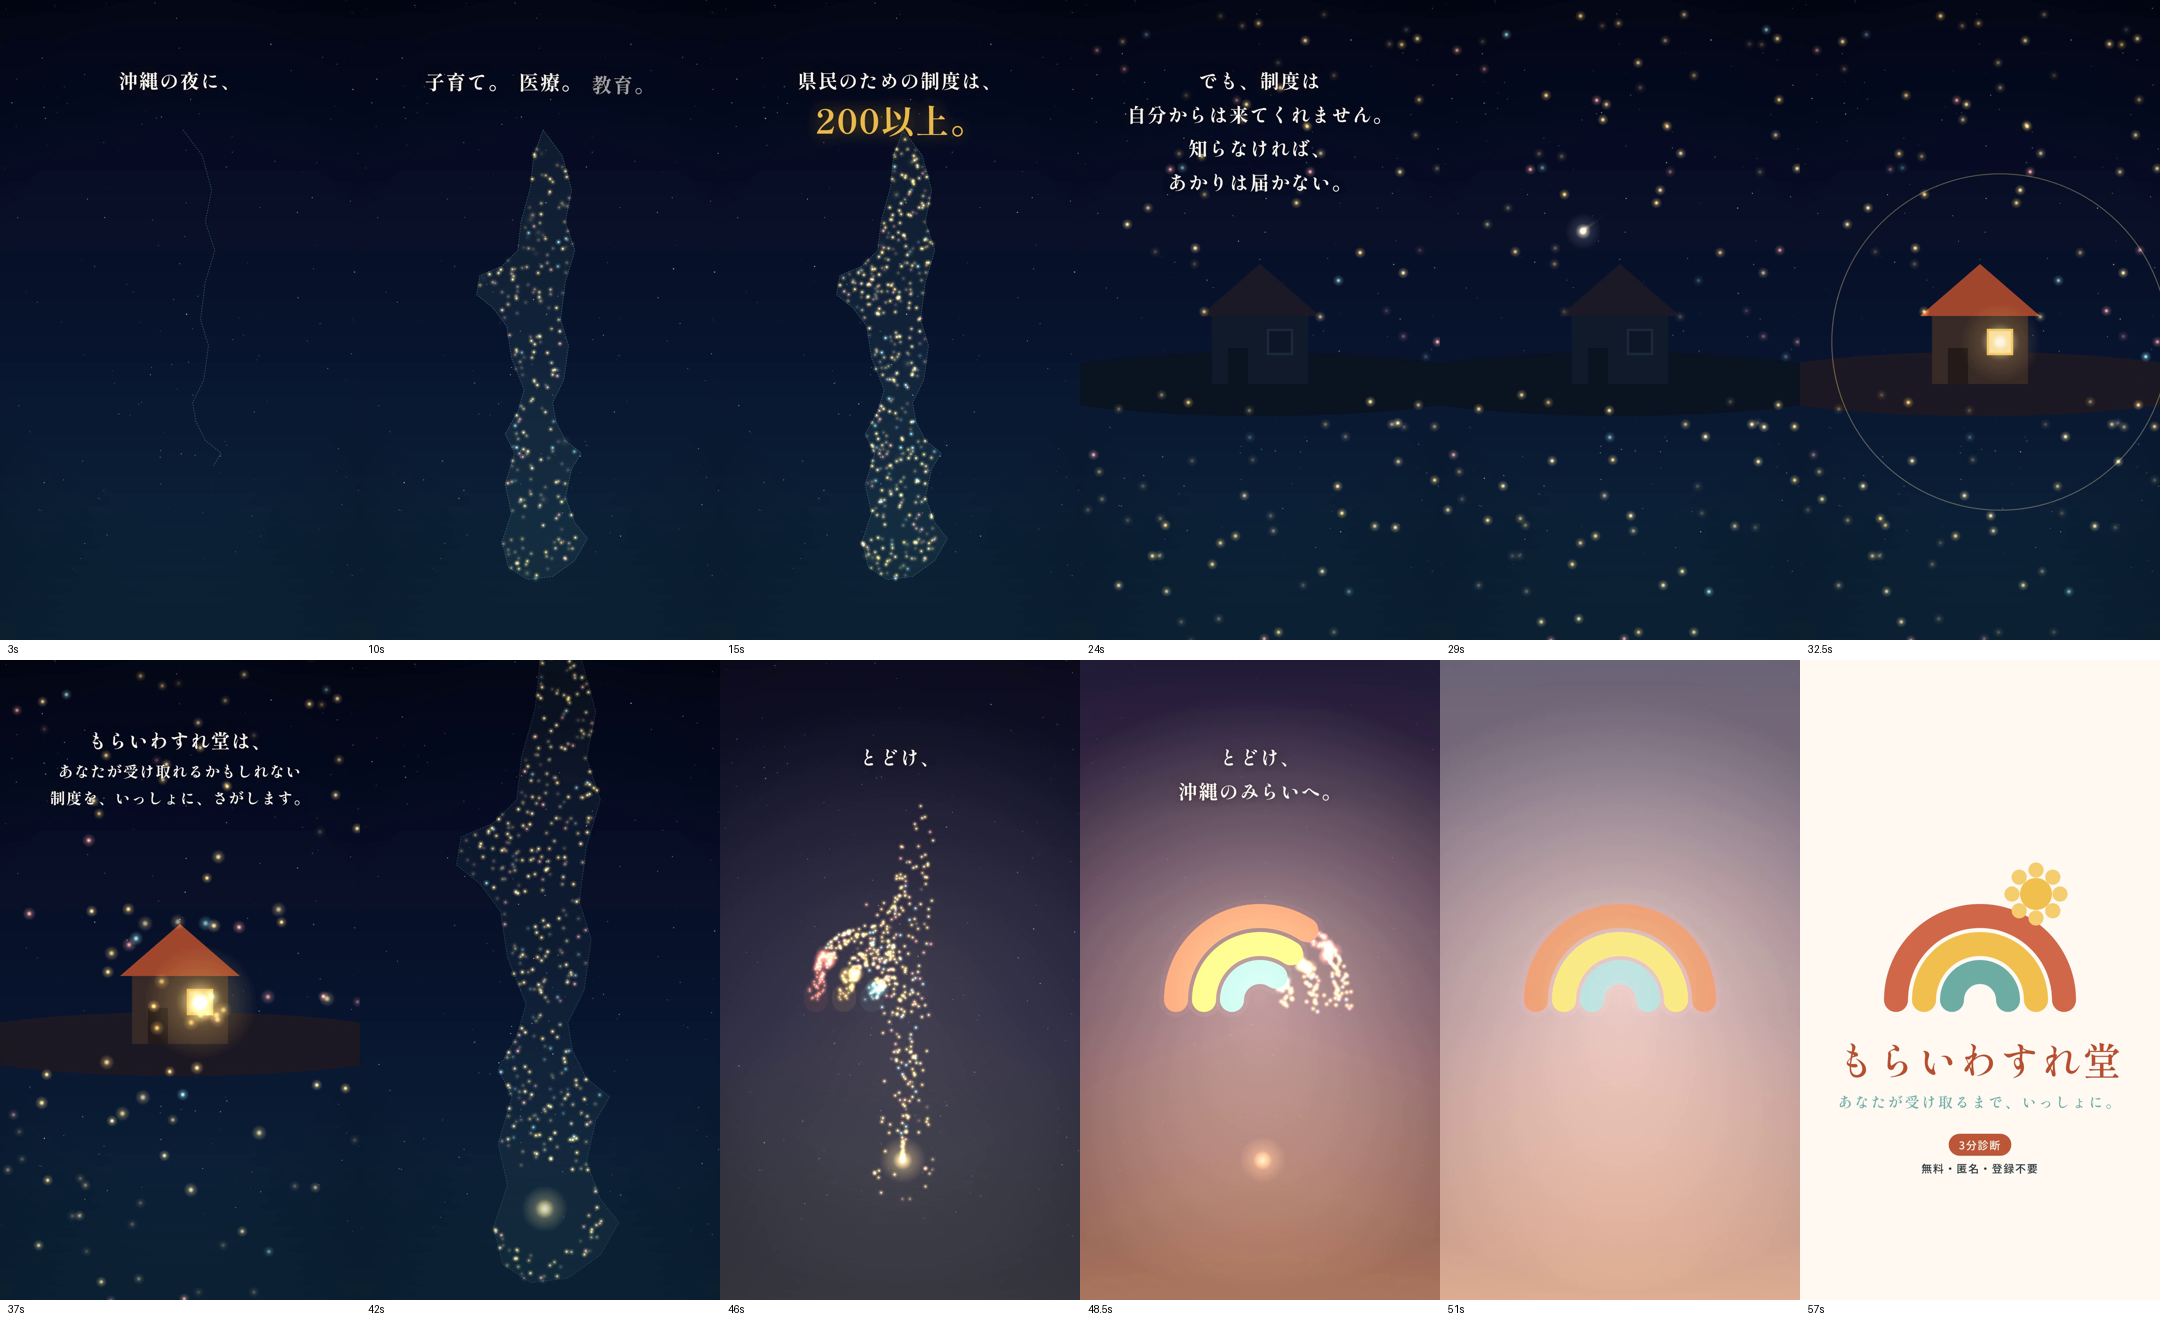
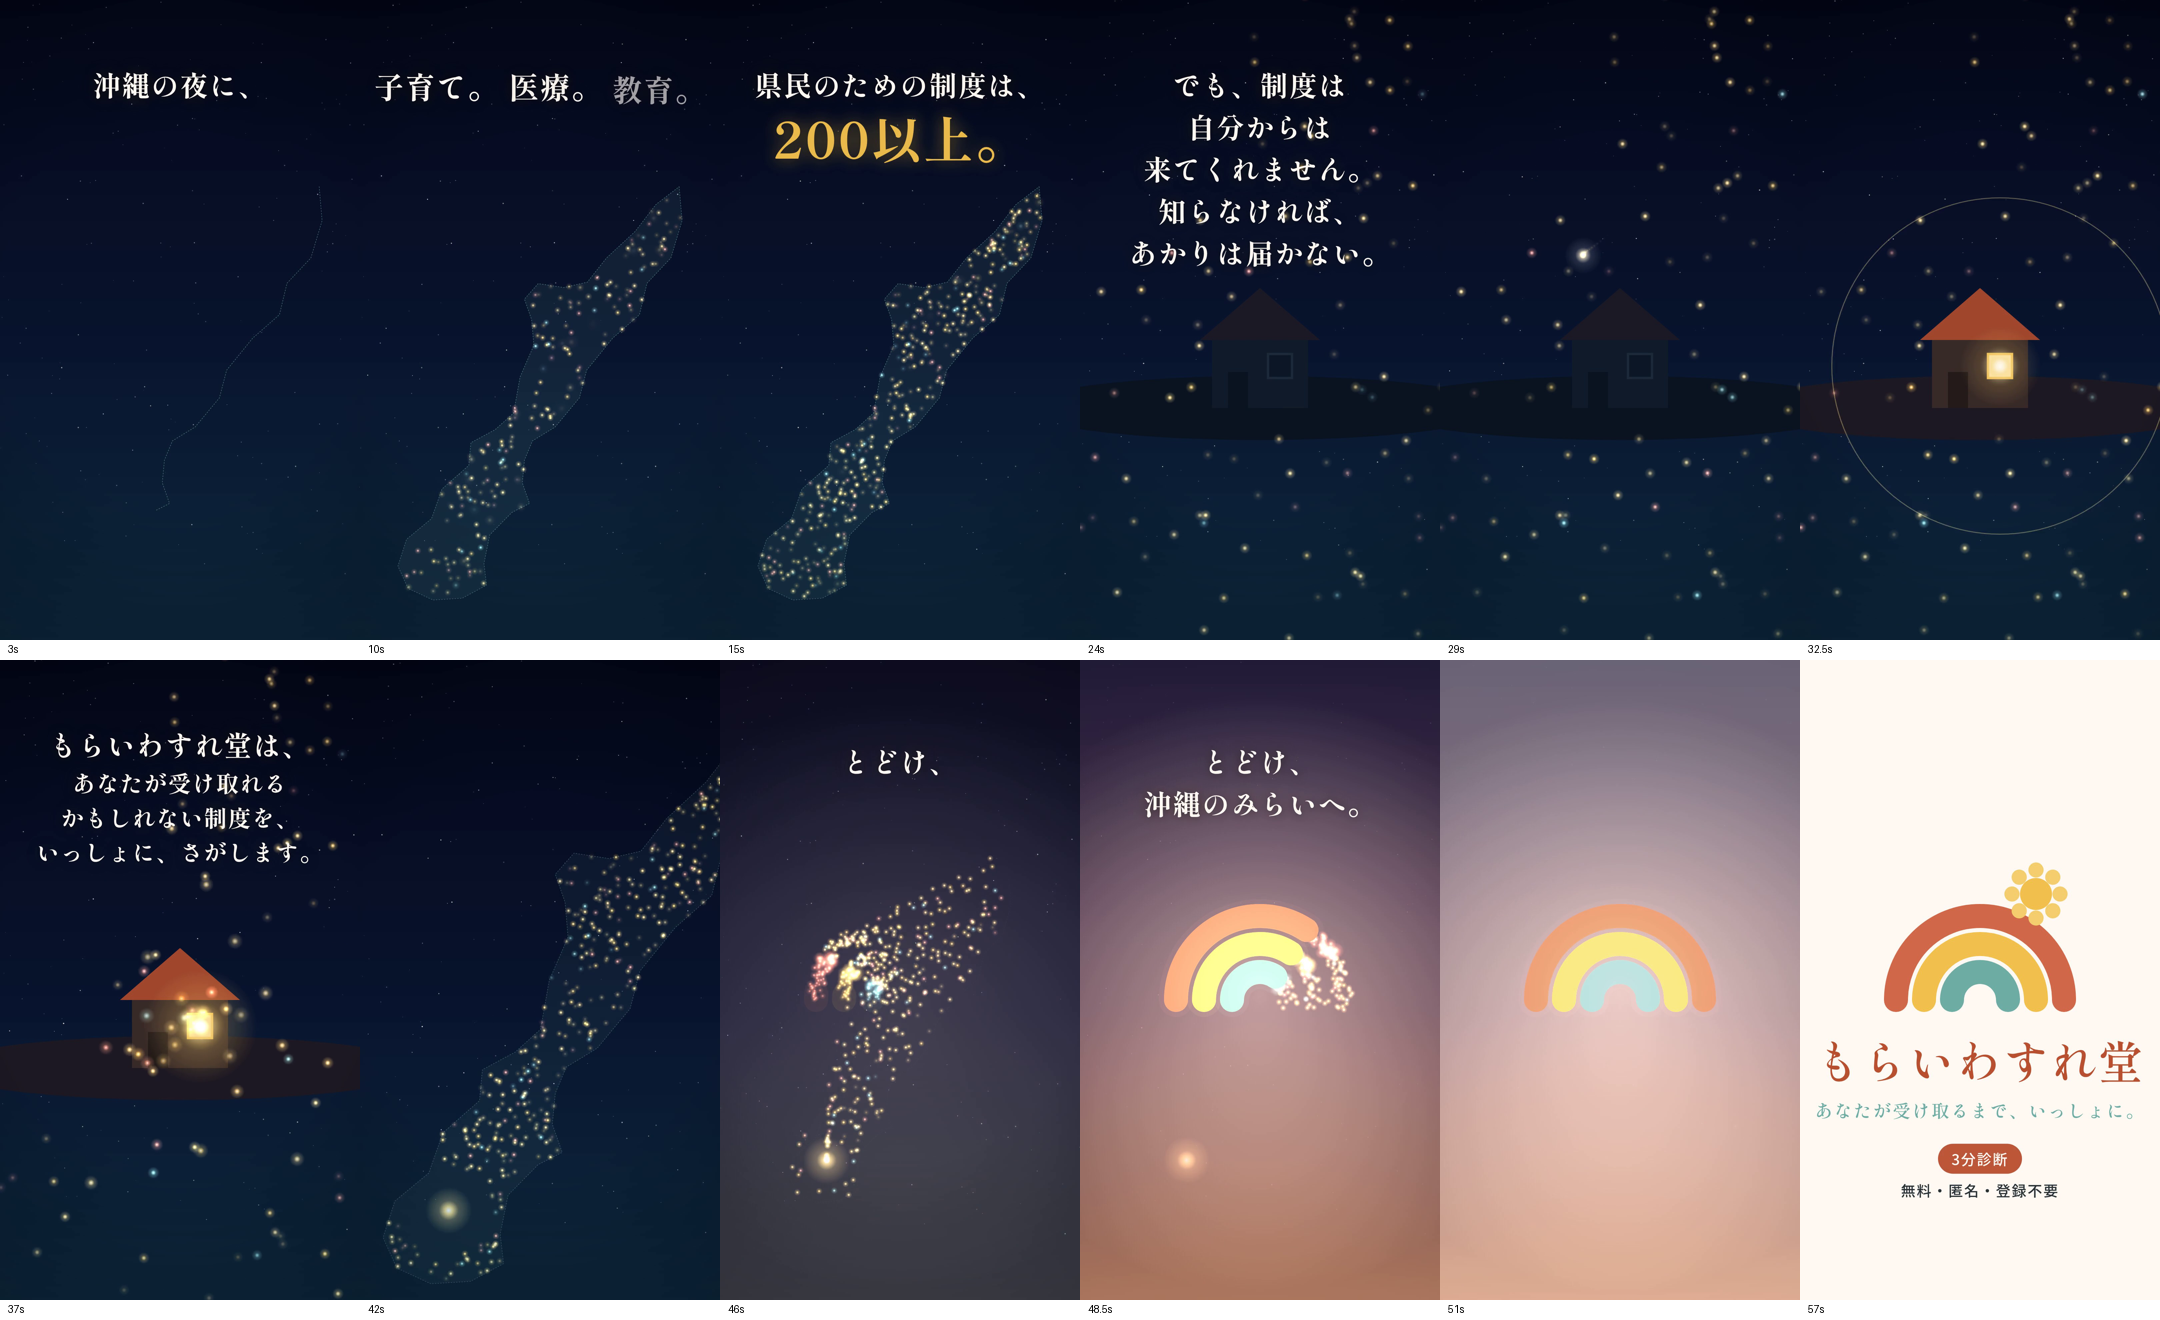
feat: 「あかりの島」の島を実際の向き(南西→北東)に斜め配置し、文字を1.5倍に
- 島の輪郭を中心まわりに32°回転し、家・あかり・カメラの枠取りを回転後の外接枠から自動算出
- 本文84px/小69px/強調150px、ロゴ下のワードマーク136px・タグライン54px・案内44pxに拡大
- 大きくなった文字に合わせて改行を組み直し(3行構成)、家に寄るカメラも文字帯と重ならない位置へ
- storyboard.png を更新

Claude-Session: https://claude.ai/code/session_01EUU57gd7iz7iCvLZHfCprB

diff --git a/video/anime-60s/index.html b/video/anime-60s/index.html
@@ -30,35 +30,35 @@ html,body{margin:0;padding:0;background:#000}
 @keyframes cvout{to{opacity:0}}
 
 /* ---- テキスト(DOM) ---- */
-.slot{position:absolute;left:80px;right:80px;text-align:center;z-index:5}
+.slot{position:absolute;left:40px;right:40px;text-align:center;z-index:5}
 .top{top:190px}
 .top2{top:240px}
 .in{opacity:0;animation:in 1.5s cubic-bezier(.2,.7,.2,1) forwards}
 .out{animation:out 1.1s ease forwards}
 @keyframes in{from{opacity:0;transform:translateY(26px)}to{opacity:1;transform:none}}
 @keyframes out{to{opacity:0}}
-.line{display:block;font-weight:700;font-size:58px;line-height:1.75;letter-spacing:.06em;
+.line{display:block;font-weight:700;font-size:84px;line-height:1.5;letter-spacing:.04em;
   text-shadow:0 2px 30px rgba(0,0,0,.55),0 0 60px rgba(242,193,78,.18)}
-.line.small{font-size:46px}
-.line.big{font-size:100px;line-height:1.3;color:var(--hi);letter-spacing:.04em;
+.line.small{font-size:69px}
+.line.big{font-size:150px;line-height:1.25;color:var(--hi);letter-spacing:.04em;
   text-shadow:0 0 50px rgba(242,193,78,.55),0 2px 30px rgba(0,0,0,.5)}
-.words{display:flex;flex-wrap:wrap;justify-content:center;gap:0 28px;padding:0 20px}
-.words .line{font-size:60px}
-.chip{display:inline-block;margin-top:18px;padding:12px 34px;border-radius:999px;
-  font-family:'Noto Sans JP',sans-serif;font-weight:500;font-size:34px;letter-spacing:.08em;
+.words{display:flex;flex-wrap:wrap;justify-content:center;gap:0 30px;padding:0}
+.words .line{font-size:90px}
+.chip{display:inline-block;margin-top:24px;padding:14px 44px;border-radius:999px;
+  font-family:'Noto Sans JP',sans-serif;font-weight:500;font-size:51px;letter-spacing:.06em;
   color:#FFFBF4;background:rgba(185,80,47,.85);text-shadow:none}
 
 /* ---- 締めのロックアップ ---- */
-.wm{position:absolute;left:0;right:0;top:1112px;text-align:center;font-weight:600;font-size:116px;
-  letter-spacing:.06em;color:var(--shu);opacity:0;animation:in 1.6s cubic-bezier(.2,.7,.2,1) 52.6s forwards;z-index:4}
-.tag{position:absolute;left:0;right:0;top:1292px;text-align:center;font-weight:600;font-size:44px;
-  letter-spacing:.14em;color:var(--umi);opacity:0;animation:in 1.6s cubic-bezier(.2,.7,.2,1) 54.2s forwards;z-index:4}
-.cta{position:absolute;left:0;right:0;top:1420px;text-align:center;font-family:'Noto Sans JP',sans-serif;
-  font-weight:500;font-size:32px;letter-spacing:.1em;color:var(--sumi);opacity:0;
+.wm{position:absolute;left:0;right:0;top:1100px;text-align:center;font-weight:600;font-size:136px;
+  letter-spacing:.04em;color:var(--shu);opacity:0;animation:in 1.6s cubic-bezier(.2,.7,.2,1) 52.6s forwards;z-index:4}
+.tag{position:absolute;left:0;right:0;top:1310px;text-align:center;font-weight:600;font-size:54px;
+  letter-spacing:.08em;color:var(--umi);opacity:0;animation:in 1.6s cubic-bezier(.2,.7,.2,1) 54.2s forwards;z-index:4}
+.cta{position:absolute;left:0;right:0;top:1450px;text-align:center;font-family:'Noto Sans JP',sans-serif;
+  font-weight:500;font-size:44px;letter-spacing:.08em;line-height:1.5;color:var(--sumi);opacity:0;
   animation:in 1.4s cubic-bezier(.2,.7,.2,1) 56.2s forwards;z-index:4}
-.cta b{display:inline-block;margin-bottom:14px;padding:10px 30px;border-radius:999px;background:var(--shu);color:#FFFBF4;font-weight:500}
+.cta b{display:inline-block;margin-bottom:16px;padding:12px 40px;border-radius:999px;background:var(--shu);color:#FFFBF4;font-weight:500}
 .corp{position:absolute;left:0;right:0;top:1790px;text-align:center;font-family:'Noto Sans JP',sans-serif;
-  font-weight:500;font-size:24px;letter-spacing:.2em;color:#9A8F86;opacity:0;
+  font-weight:500;font-size:32px;letter-spacing:.2em;color:#9A8F86;opacity:0;
   animation:in 1.4s ease 57s forwards;z-index:4}
 </style>
 </head>
@@ -113,7 +113,7 @@ html,body{margin:0;padding:0;background:#000}
   <!-- S3 まっくらな家 -->
   <div class="slot top">
     <div class="out" style="animation-delay:26.4s">
-      <span class="line in" style="animation-delay:18.6s">でも、制度は<br>自分からは来てくれません。</span>
+      <span class="line in" style="animation-delay:18.6s">でも、制度は<br>自分からは<br>来てくれません。</span>
       <span class="line in" style="animation-delay:22.6s">知らなければ、<br>あかりは届かない。</span>
     </div>
   </div>
@@ -122,7 +122,7 @@ html,body{margin:0;padding:0;background:#000}
   <div class="slot top">
     <div class="out" style="animation-delay:39.6s">
       <span class="line in" style="animation-delay:33.0s">もらいわすれ堂は、</span>
-      <span class="line small in" style="animation-delay:34.6s">あなたが受け取れるかもしれない<br>制度を、いっしょに、さがします。</span>
+      <span class="line small in" style="animation-delay:34.6s">あなたが受け取れる<br>かもしれない制度を、<br>いっしょに、さがします。</span>
       <span class="chip in" style="animation-delay:37.2s">3分診断 ・ 無料 ・ 匿名</span>
     </div>
   </div>
@@ -165,21 +165,34 @@ const ISLAND = [[330,40],[390,120],[420,230],[400,330],[430,420],[400,520],[385,
   [430,1400],[360,1450],[280,1460],[220,1420],[200,1340],[230,1250],[210,1160],[240,1060],[210,1000],
   [250,930],[270,860],[230,760],[215,660],[170,600],[120,560],[130,500],[200,470],[250,420],[260,330],
   [290,220],[300,120]];
+// 実際の沖縄本島と同じく南西→北東へ斜めに置く(北端が右上)。中心(300,750)まわりに時計回り32°
+const TILT=32*Math.PI/180, PIV={x:300,y:750};
+function rot(x,y){const dx=x-PIV.x,dy=y-PIV.y,c=Math.cos(TILT),sn=Math.sin(TILT);return [PIV.x+dx*c-dy*sn, PIV.y+dx*sn+dy*c]}
+for(let i=0;i<ISLAND.length;i++)ISLAND[i]=rot(ISLAND[i][0],ISLAND[i][1]);
+const BB={x0:Math.min(...ISLAND.map(p=>p[0])),x1:Math.max(...ISLAND.map(p=>p[0])),y0:Math.min(...ISLAND.map(p=>p[1])),y1:Math.max(...ISLAND.map(p=>p[1]))};
 function inPoly(x,y){let inside=false;for(let i=0,j=ISLAND.length-1;i<ISLAND.length;j=i++){
   const [xi,yi]=ISLAND[i],[xj,yj]=ISLAND[j];
   if(((yi>y)!==(yj>y))&&(x<(xj-xi)*(y-yi)/(yj-yi)+xi))inside=!inside}return inside}
 let ISLAND_LEN=0;for(let i=0;i<ISLAND.length;i++){const a=ISLAND[i],b=ISLAND[(i+1)%ISLAND.length];ISLAND_LEN+=Math.hypot(b[0]-a[0],b[1]-a[1])}
 
-const HOUSE = {x:300,y:1300};
+const HOUSE = (()=>{const [x,y]=rot(300,1300);return {x,y}})();
 const WINDOW = {x:HOUSE.x+10,y:HOUSE.y+1};
 
 // ---------- カメラ ----------
+// S1/S2: 島全体を、上の文字帯(〜560px)を避けて収める
+const Z1=Math.min(880/(BB.x1-BB.x0), 1240/(BB.y1-BB.y0));
+const CAM1={x:(BB.x0+BB.x1)/2, y:BB.y0+(400/Z1), z:Z1};
+// S3/S4: 家に寄る(家は画面中央よりやや下)
+const CAM3={x:HOUSE.x, y:HOUSE.y-22, z:6};
+// S5/S6: 引き。家が画面下(y≒1500)、虹が上
+const Z5=0.8;
+const CAM5={x:(BB.x0+BB.x1)/2, y:HOUSE.y-540/Z5, z:Z5};
 const CAM = [
-  [0,   {x:320,y:640, z:0.95}],
-  [17,  {x:320,y:640, z:0.95}],
-  [21.8,{x:300,y:1290,z:6}],
-  [40,  {x:300,y:1290,z:6}],
-  [43.2,{x:300,y:625, z:0.8}],
+  [0,   CAM1],
+  [17,  CAM1],
+  [21.8,CAM3],
+  [40,  CAM3],
+  [43.2,CAM5],
 ];
 const CAM_FINAL = CAM[CAM.length-1][1];
 function camAt(t){
@@ -207,7 +220,7 @@ const COLS = [
 function pickCol(u){let a=0;for(const c of COLS){a+=c.w;if(u<a)return c.c}return COLS[0].c}
 const lights=[];
 while(lights.length<470){
-  const x=100+rnd()*400,y=40+rnd()*1440;
+  const x=BB.x0+rnd()*(BB.x1-BB.x0),y=BB.y0+rnd()*(BB.y1-BB.y0);
   if(!inPoly(x,y))continue;
   const d=Math.hypot(x-HOUSE.x,y-HOUSE.y);
   if(d<28)continue;
@@ -261,7 +274,7 @@ function cubic(p0,p1,p2,p3,t){const u=1-t;return{
 
 // ---------- 案内のあかり(画面座標・27〜31.9秒) ----------
 function guidePos(t){
-  const winS = {x:W/2+(WINDOW.x-300)*6, y:H/2+(WINDOW.y-1290)*6};
+  const winS = toS(WINDOW,CAM3);
   if(t<29.6){const p=smooth((t-27)/2.6);return {x:W/2+150*Math.sin((t-27)*2.4)*(1-p*.3),y:lerp(-80,winS.y-330,easeOut(p))}}
   const p=clamp((t-29.6)/2.3);
   const ang=-Math.PI/2+p*Math.PI*2*1.15, r=lerp(330,0,easeIn(p)*.15+smooth(p)*.85);
@@ -290,7 +303,7 @@ function draw(t){
   {const ap=smooth((t-.4)/3.5)*(1-dawn*.9);
    if(ap>0){g.fillStyle='#FFFBF4';for(const s of stars){
      g.globalAlpha=ap*s.a*(.7+.3*Math.sin(t*s.w+s.ph));
-     g.beginPath();g.arc(s.x-(cam.x-320)*.02,s.y-(cam.y-640)*.02,s.r,0,6.283);g.fill()}}}
+     g.beginPath();g.arc(s.x-(cam.x-CAM1.x)*.02,s.y-(cam.y-CAM1.y)*.02,s.r,0,6.283);g.fill()}}}
 
   // 島の輪郭(点線で自ら描かれる)
   {const prog=smooth((t-.8)/5.5), vis=clamp((2.6-cam.z)/1.6)*(1-smooth((t-43.5)/3));
